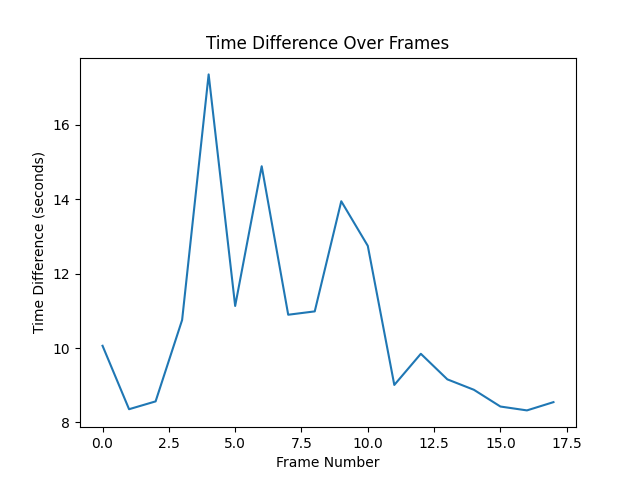
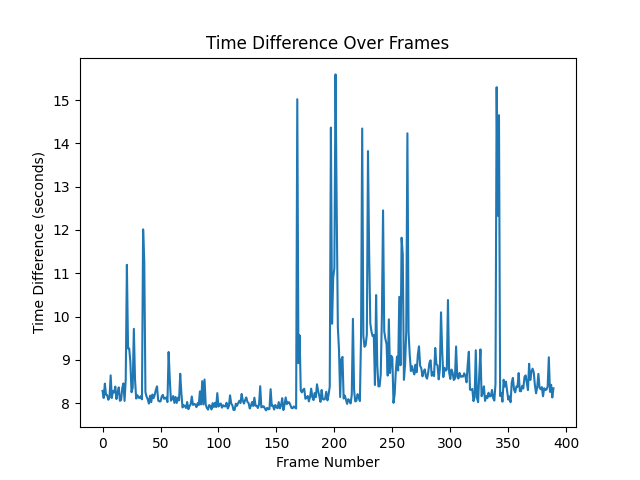
full video simulation

diff --git a/tst.py b/tst.py
@@ -103,7 +103,7 @@ motion_vectors_NNMP = []
 motion_vectors_full_search = []
 
 # Process the frames
-for i in range(len(frames)//20 - 1):
+for i in range(len(frames) - 1):
 
     # Convolve the frames with the kernel
     Rf1 = convolve2d(frames[i], K, mode='same')
